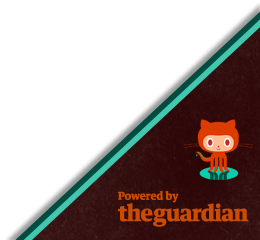
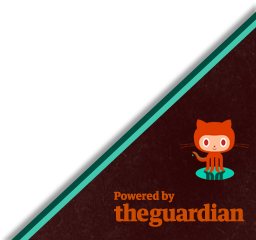
End of day hack, make the tab scale at different window sizes

diff --git a/css/main.css b/css/main.css
@@ -89,42 +89,41 @@ div.face img {
     margin: 4px;
 }
 
-#tab1 {
+.tab {
     position: fixed;
     right: 0;
-    bottom: 180px;
     z-index: 500;
-    width: 65px;
-    height: 60px;
-    background: url(../img/tab.png) -195px 0;
 }
 
-#tab2 {
-    position: fixed;
-    right: 0;
-    bottom: 120px;
-    z-index: 500;
-    width: 130px;
-    height: 60px;
-    background: url(../img/tab.png) -130px -60px;
+#tab1 { bottom: 180px; width: 64px;  height: 60px; background: url(../img/tab.png) -192px   0; }
+#tab2 { bottom: 120px; width: 128px; height: 60px; background: url(../img/tab.png) -128px -60px; }
+#tab3 { bottom: 60px;  width: 192px; height: 60px; background: url(../img/tab.png)  -64px -120px; }
+#tab4 { bottom: 0;     width: 256px; height: 60px; background: url(../img/tab.png)    0   -180px; }
+
+@media screen and (max-width: 399px) {
+    #tab1 { bottom: 45px;  width: 16px; height: 15px; background: url(../img/tab25.png) -48px   0; }
+    #tab2 { bottom: 30px;  width: 32px; height: 15px; background: url(../img/tab25.png) -32px -15px; }
+    #tab3 { bottom: 15px;  width: 48px; height: 15px; background: url(../img/tab25.png) -16px -30px; }
+    #tab4 { bottom: 0;     width: 64px; height: 15px; background: url(../img/tab25.png)   0   -45px; }
 }
 
-#tab3 {
-    position: fixed;
-    right: 0;
-    bottom: 60px;
-    z-index: 500;
-    width: 195px;
-    height: 60px;
-    background: url(../img/tab.png) -65px -120px;
+@media screen and (min-width: 400px) {
+    #tab1 { bottom: 90px;  width: 32px;  height: 30px; background: url(../img/tab50.png) -96px   0; }
+    #tab2 { bottom: 60px;  width: 64px;  height: 30px; background: url(../img/tab50.png) -64px -30px; }
+    #tab3 { bottom: 30px;  width: 96px;  height: 30px; background: url(../img/tab50.png) -32px -60px; }
+    #tab4 { bottom: 0;     width: 128px; height: 30px; background: url(../img/tab50.png)   0   -90px; }
 }
 
-#tab4 {
-    position: fixed;
-    right: 0;
-    bottom: 0;
-    z-index: 500;
-    width: 260px;
-    height: 60px;
-    background: url(../img/tab.png) 0 -180px;
+@media screen and (min-width: 800px) {
+    #tab1 { bottom: 135px; width: 48px;  height: 45px; background: url(../img/tab75.png) -144px    0; }
+    #tab2 { bottom:  90px; width: 96px;  height: 45px; background: url(../img/tab75.png)  -96px  -45px; }
+    #tab3 { bottom:  45px; width: 144px; height: 45px; background: url(../img/tab75.png)  -48px  -90px; }
+    #tab4 { bottom:   0;   width: 192px; height: 45px; background: url(../img/tab75.png)    0   -135px; }
+}
+
+@media screen and (min-width: 1600px) {
+    #tab1 { bottom: 180px; width: 64px;  height: 60px; background: url(../img/tab.png) -192px   0; }
+    #tab2 { bottom: 120px; width: 128px; height: 60px; background: url(../img/tab.png) -128px -60px; }
+    #tab3 { bottom: 60px;  width: 192px; height: 60px; background: url(../img/tab.png)  -64px -120px; }
+    #tab4 { bottom: 0;     width: 256px; height: 60px; background: url(../img/tab.png)    0   -180px; }
 }

diff --git a/templates/index.html b/templates/index.html
@@ -13,10 +13,10 @@
   <body>
     <div id="bigImageHolder">
     </div>
-    <div id="tab1"></div>
-    <div id="tab2"></div>
-    <a href="https://github.com/revdancatt/GuardianPictureGrid" target="_blank"><div id="tab3"></div></a>
-    <a href="http://www.guardian.co.uk/open-platform" target="_blank"><div id="tab4"></div></a>
+    <div id="tab1" class="tab"></div>
+    <div id="tab2" class="tab"></div>
+    <a href="https://github.com/revdancatt/GuardianPictureGrid" target="_blank"><div id="tab3" class="tab"></div></a>
+    <a href="http://www.guardian.co.uk/open-platform" target="_blank"><div id="tab4" class="tab"></div></a>
     <script src="js/jquery.min.js"></script> 
     <script src="js/control.js?v=0.1"></script> 
     <script>
